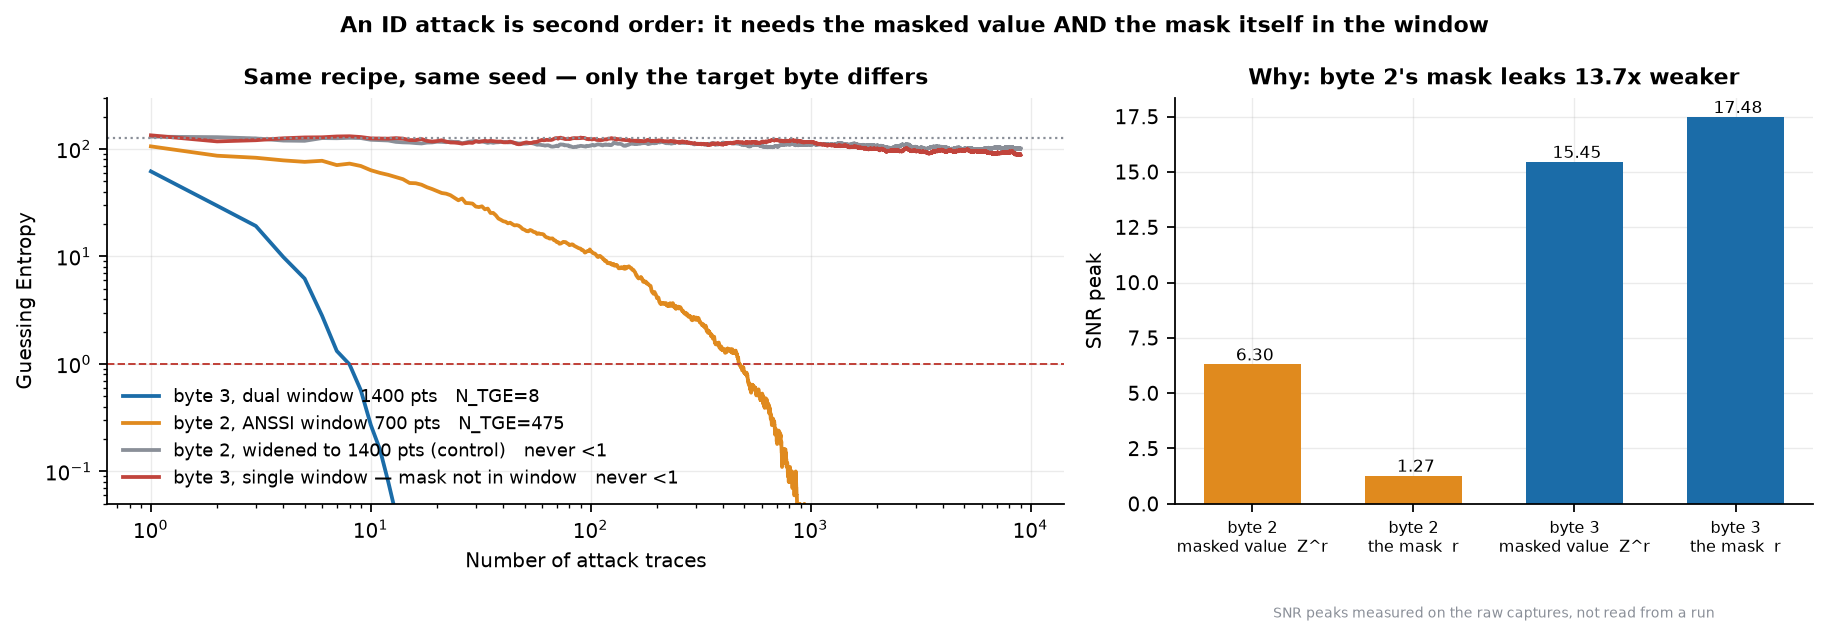
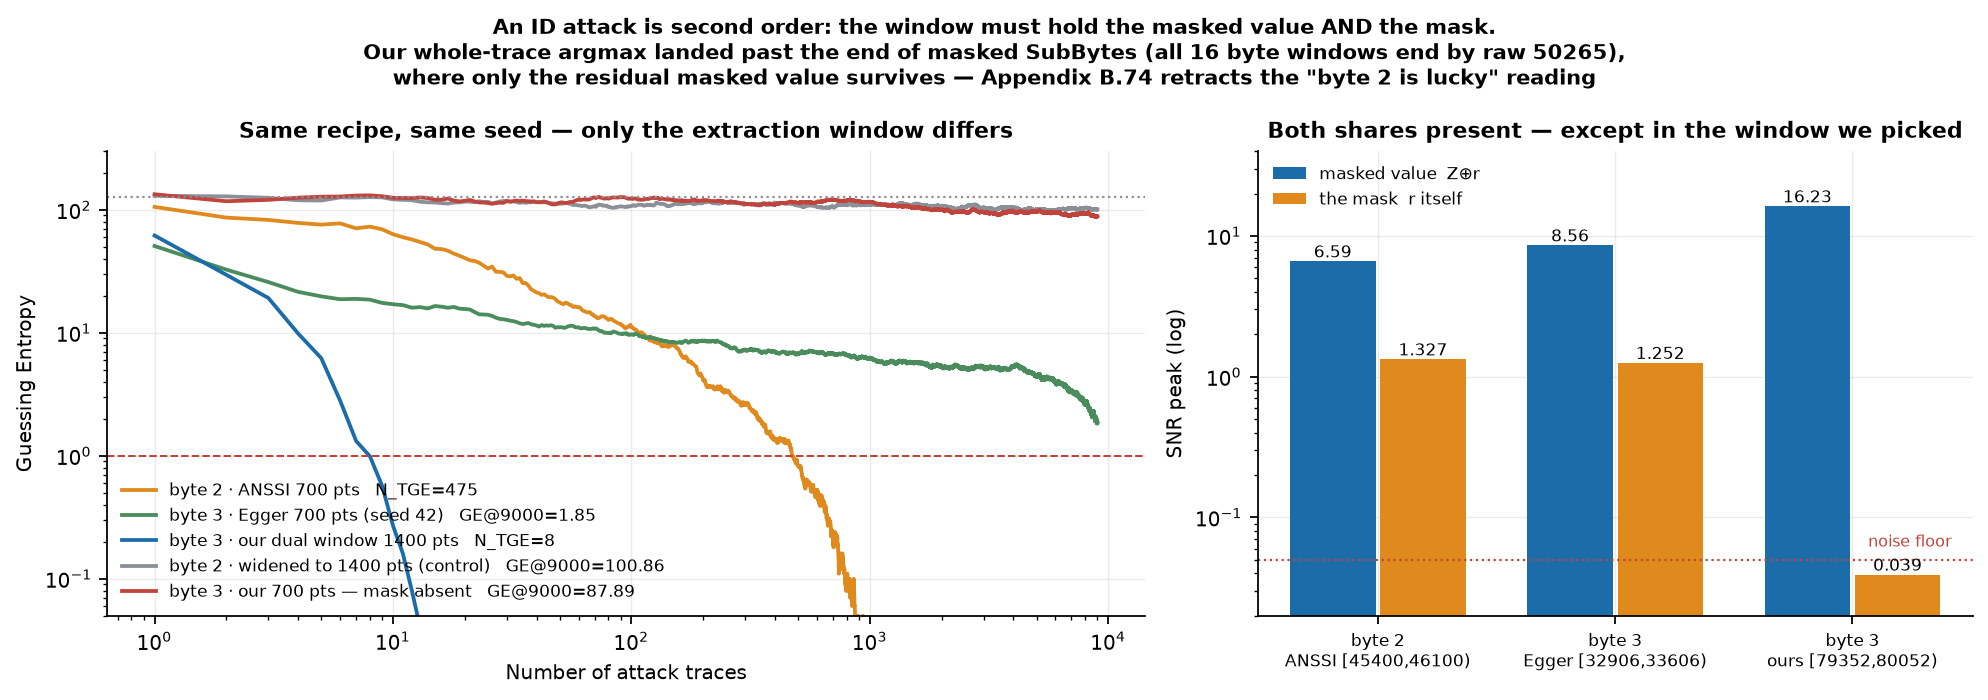
Retract 附錄 B.66/B.67's "byte 2 is a lucky special case" — we picked the window wrong
Egger et al., "A Second Look at the ASCAD Databases" (COSADE 2022, LNCS 13211,
pp. 75-99) is the paper 附錄 B.66 could not obtain and the literature check
flagged as the one that might pre-empt the multi-byte finding. It does, and it
also shows the finding was wrong.

Their Appendix A.1 Table 4 publishes a per-byte window for all 16 bytes, and
their Table 1 — computed on those windows — recovers byte 3 with a second-order
multivariate CPA in 280 traces. So a single 700-sample window does support a
second-order attack on byte 3, which is exactly what B.66 claimed was
impossible.

Measured on 8,000 raw traces (check_egger_windows.py):

  byte 2, ANSSI [45400,46100):  Z^r 6.5922   r 1.3272
  byte 3, Egger [32906,33606):  Z^r 8.5579   r 1.2522
  byte 3, ours  [79352,80052):  Z^r 16.2306  r 0.0392  <- noise

Byte 3's two shares sit together in its own SubBytes window, structurally just
like byte 2's. What went wrong is window SELECTION: 06_find_byte_poi.py takes a
whole-trace argmax of the masked label, and for byte 3 that lands at raw 79702 —
past the end of the entire masked SubBytes region (all 16 windows end by raw
50265), where only the residual masked value survives and the mask does not leak
at all. We opened the window where one share was strongest, got an attack that
was impossible in principle, and blamed the byte.

Re-running with Egger's window (E10d, three seeds, otherwise identical to E01):
[…]

diff --git a/scripts/09_make_figures.py b/scripts/09_make_figures.py
@@ -15,11 +15,10 @@ labelled as such:
 
   * F05 recomputes SNR from the h5 databases, because SNR is a property of the
     data rather than of any run.
-  * F11's right panel carries the four SNR peaks measured in CLAUDE.md 附錄
-    B.66/B.67. Those are transcribed rather than recomputed: they come from the
-    byte-3 databases, which live on the GPU server and are not part of the
-    local data/ directory. Recompute them with scripts/06_find_byte_poi.py if
-    the numbers ever need re-deriving.
+  * F11's right panel carries six SNR peaks measured on the raw traces by
+    check_egger_windows.py (CLAUDE.md 附錄 B.74). Those are transcribed rather
+    than recomputed: the raw 6 GB capture lives on the GPU server, not in the
+    local data/ directory.
 
 Usage (run from repo root):
     python scripts/09_make_figures.py                 # everything except F05
@@ -31,6 +30,7 @@ from __future__ import annotations
 
 import argparse
 import csv
+import glob
 import json
 import os
 import sys
@@ -512,42 +512,71 @@ def f10_variable_key():
     save(fig, "F10_variable_key", "variable-key E09/E09b + diagnostic (附錄 B.64/B.65)")
 
 
+def _run_with_seed(pattern: str, seed: int) -> str:
+    """Resolve a pid-suffixed run directory by the seed in its config snapshot."""
+    for d in sorted(glob.glob(pattern)):
+        snap = Path(d) / "config_snapshot.yaml"
+        if snap.exists() and any(l.strip() == f"seed: {seed}" for l in snap.read_text().splitlines()):
+            return d.rstrip("/")
+    raise FileNotFoundError(f"{pattern} with seed {seed}")
+
+
 def f11_byte_comparison():
-    """附錄 B.66/B.67: byte 2 is both uniquely convenient and unusually hard."""
+    """附錄 B.66/B.67, corrected by 附錄 B.74.
+
+    The original version of this figure argued that byte 2 was a lucky special
+    case whose two second-order shares happen to share one window. That reading
+    was retracted: Egger et al. (COSADE 2022) publish a per-byte window for every
+    byte, and byte 3's contains both shares. What actually went wrong was window
+    SELECTION — a whole-trace argmax of the masked label landed past the end of
+    the masked SubBytes region, where only the residual masked value survives.
+    """
     entries = [
+        ("runs/E01_baseline_clean_20260816_1302", "byte 2 · ANSSI 700 pts", C_MID),
+        (_run_with_seed("runs_byte3_egger/E10d_byte3_egger_*/", 42),
+         "byte 3 · Egger 700 pts (seed 42)", C_ALT),
         ("runs_byte3/E10b_byte3_dual_20260901_210700_2080071",
-         "byte 3, dual window 1400 pts", C_GOOD),
-        ("runs/E01_baseline_clean_20260816_1302", "byte 2, ANSSI window 700 pts", C_MID),
+         "byte 3 · our dual window 1400 pts", C_GOOD),
         ("runs_byte3/E10c_byte2_wide_control_20260901_211734_2103231",
-         "byte 2, widened to 1400 pts (control)", C_GREY),
+         "byte 2 · widened to 1400 pts (control)", C_GREY),
         ("runs_byte3/E10_byte3_20260901_205458_2055720",
-         "byte 3, single window — mask not in window", C_BAD),
+         "byte 3 · our 700 pts — mask absent", C_BAD),
     ]
-    fig, (ax, axb) = plt.subplots(1, 2, figsize=(11.5, 4.2), gridspec_kw={"width_ratios": [1.5, 1]})
+    fig, (ax, axb) = plt.subplots(1, 2, figsize=(12.5, 4.4), gridspec_kw={"width_ratios": [1.45, 1]})
     for run, label, colour in entries:
         m = metrics(run)
         curve = np.asarray(m["ge"])
-        tail = f"N_TGE={m['n_tge']}" if m.get("n_tge") else "never <1"
+        tail = f"N_TGE={m['n_tge']}" if m.get("n_tge") else f"GE@{len(curve)}={curve[-1]:.2f}"
         ax.plot(np.arange(1, len(curve) + 1), curve, color=colour, lw=1.7, label=f"{label}   {tail}")
     ax.set_xscale("log"); ax.set_yscale("log")
     ax.set_ylim(0.05, 300)
-    _ge_axes(ax, "Same recipe, same seed — only the target byte differs")
-    ax.legend(loc="lower left")
+    _ge_axes(ax, "Same recipe, same seed — only the extraction window differs")
+    ax.legend(loc="lower left", fontsize=7.5)
 
-    # The two leakages an ID attack must combine, measured in 附錄 B.66/B.67.
-    names = ["byte 2\nmasked value  Z^r", "byte 2\nthe mask  r", "byte 3\nmasked value  Z^r", "byte 3\nthe mask  r"]
-    vals = [6.3003, 1.2737, 15.4535, 17.4826]
-    axb.bar(range(4), vals, color=[C_MID, C_MID, C_GOOD, C_GOOD], width=0.6)
-    axb.set_xticks(range(4)); axb.set_xticklabels(names, fontsize=7)
-    axb.set_ylabel("SNR peak")
-    axb.set_title("Why: byte 2's mask leaks 13.7x weaker")
-    axb.text(0.5, -0.28, "SNR peaks measured on the raw captures, not read from a run",
-             transform=axb.transAxes, ha="center", fontsize=6.5, color=C_GREY)
-    for i, v in enumerate(vals):
-        axb.text(i, v, f" {v:.2f}", ha="center", va="bottom", fontsize=7.5)
-    fig.suptitle("An ID attack is second order: it needs the masked value AND the mask itself in the window",
-                 fontsize=10, fontweight="bold")
-    save(fig, "F11_byte_comparison", "byte 2 vs byte 3 (附錄 B.66/B.67)")
+    # Measured on 8,000 raw traces by check_egger_windows.py (附錄 B.74), not
+    # read from a run: SNR is a property of the data, not of any training.
+    windows = ["byte 2\nANSSI [45400,46100)", "byte 3\nEgger [32906,33606)", "byte 3\nours [79352,80052)"]
+    masked_val = [6.5922, 8.5579, 16.2306]
+    mask_itself = [1.3272, 1.2522, 0.0392]
+    x = np.arange(3)
+    axb.bar(x - 0.19, masked_val, 0.36, color=C_GOOD, label="masked value  Z⊕r")
+    axb.bar(x + 0.19, mask_itself, 0.36, color=C_MID, label="the mask  r itself")
+    for xi, v in zip(x - 0.19, masked_val):
+        axb.text(xi, v, f"{v:.2f}", ha="center", va="bottom", fontsize=7.5)
+    for xi, v in zip(x + 0.19, mask_itself):
+        axb.text(xi, v, f"{v:.3f}", ha="center", va="bottom", fontsize=7.5)
+    axb.axhline(0.05, color=C_BAD, ls=":", lw=1)
+    axb.text(2.42, 0.062, "noise floor", ha="right", fontsize=7, color=C_BAD)
+    axb.set_yscale("log"); axb.set_ylim(0.02, 40)
+    axb.set_xticks(x); axb.set_xticklabels(windows, fontsize=7.5)
+    axb.set_ylabel("SNR peak (log)")
+    axb.set_title("Both shares present — except in the window we picked")
+    axb.legend(fontsize=7.5)
+    fig.suptitle("An ID attack is second order: the window must hold the masked value AND the mask.\n"
+                 "Our whole-trace argmax landed past the end of masked SubBytes (all 16 byte windows end by raw 50265),\n"
+                 "where only the residual masked value survives — Appendix B.74 retracts the \"byte 2 is lucky\" reading",
+                 fontsize=9.5, fontweight="bold")
+    save(fig, "F11_byte_comparison", "byte 2 vs byte 3 windows (附錄 B.66/B.67, corrected by B.74)")
 
 
 def f12_hardware_baseline(n_traces: int = 5000):

diff --git a/scripts/00_inspect_data.py b/scripts/00_inspect_data.py
@@ -170,8 +170,13 @@ def main() -> None:
     # second order — it must combine Z^r with r — so a window holding only Z^r
     # makes the attack impossible in principle, whatever the model or
     # hyperparameters. The masked-label check above is blind to this: it PASSED on
-    # a byte-3 window with a better SNR than byte 2's whose mask leaked 19,161 raw
-    # points away. See CLAUDE.md 附錄 B.66/B.67.
+    # a byte-3 window with a better SNR than byte 2's, in which the mask did not
+    # leak at all (mask-value SNR 0.0392, i.e. noise). That window was picked by
+    # taking the whole-trace argmax of the masked label, which landed outside the
+    # masked-SubBytes region entirely — see CLAUDE.md 附錄 B.74, which retracts
+    # 附錄 B.66's "no 700-point window can hold both shares" reading. The check
+    # below is still the right one; what was missing is applying it when CHOOSING
+    # the window, not only after extracting it.
     snr_mask_value = snr(a_traces, a_meta["masks"][:, mask_index].astype(np.uint8))
     peak_mask, poi_mask = float(snr_mask_value.max()), int(snr_mask_value.argmax())
     print(f"  mask-value     SNR peak: {peak_mask:.4f} at point {poi_mask}  "

diff --git a/CLAUDE.md b/CLAUDE.md
@@ -2161,7 +2161,9 @@ PI           = -0.0137 bits
 
 **另外，這裡沒有做的一件重要的事**：**沒有嘗試為 variable-key 尋找一組能work的配方**。本節只證明了「E01 的配方不能遷移」，沒有證明「variable-key 在本專案的框架下攻不破」——SCA 文獻普遍需要更大的模型與更多軌跡才能處理 variable-key，而本專案已經反覆證實（desync50/100、resnet、cnn_best）**換情境就必須重新調參，不能假設遷移**。若要讓 variable-key 成為防禦端可用的評估基礎，需要對它投入一輪與 B.7–B.16 同等規模的獨立調查，這是一筆明確、可預期、但尚未投入的成本。
 
-### B.66 多 byte 分析：byte 2 是一個**特例**，它的視窗剛好同時裝下兩個必要的洩漏——其他 byte 沒有這個運氣
+### B.66 多 byte 分析（⚠ 核心結論已於 B.74 撤回）：byte 2 是一個**特例**，它的視窗剛好同時裝下兩個必要的洩漏——其他 byte 沒有這個運氣
+
+> **⚠ 訂正（2026-09-16，見 B.74）**：本節的機制解釋**是錯的**。取得 Egger et al.（COSADE 2022）全文後發現，他們的附錄 A.1 表 4 公布了全部 16 個 byte 各自的單一 700 點視窗；實測他們的 byte 3 視窗 `[32906, 33606)`：遮罩值 SNR **8.56**、遮罩本身 SNR **1.25**，**兩個 share 都在同一個 700 點視窗內**，與 byte 2（6.59／1.33）幾乎相同。下面「任何 700 點視窗都裝不下」與「byte 2 是特例」的推論因此不成立——真正的原因是**我們自己把視窗開錯地方**（見 B.74）。本節其餘的實驗事實（E10 失敗、E10b 成功、E10c 對照）仍然成立，保留作為歷史記錄。
 
 **動機**：資料集廣度的第二部分。E01 的配方是針對 ASCAD fixed-key **byte 2** 調出來的，而 ASCAD 官方發布的三個資料庫全部都是 byte 2 的 `[45400, 46100)` 視窗。要測其他 byte，必須自己從 raw traces 重新抽取——這是本節的主要工程。
 
@@ -2195,11 +2197,11 @@ N_TGE = None   GE@9000 = 87.89   SR1 = 0.00   PI = -0.6555
 | byte 2（ANSSI 官方視窗） | 6.3003 @ 視窗點 517 | **1.2737 @ 視窗點 156**（在視窗內） |
 | byte 3（我的單一視窗） | 15.4535 @ 視窗點 350 | **0.0106 @ 視窗點 276**（**雜訊層級，不在視窗內**） |
 
-回到 raw 座標掃描 byte 3 的遮罩欄位（`masks[:,1]`）：**遮罩的洩漏峰值在 raw point 98863**（SNR 17.5595），而遮罩值在 **79702**——**兩者相距 19,161 個點**。**任何 700 點視窗都不可能同時裝下**。
+回到 raw 座標掃描 byte 3 的遮罩欄位（`masks[:,1]`）：**遮罩的洩漏峰值在 raw point 98863**（SNR 17.5595），而遮罩值在 **79702**——**兩者相距 19,161 個點**。~~**任何 700 點視窗都不可能同時裝下**。~~ **⚠ 這個推論錯了**：這兩個位置都在 masked SubBytes 區域**之外**（16 個 byte 的視窗最遠只到 raw 50265），是該中間值在後續運算中的殘留；在 SubBytes 區域內、byte 3 自己的處理視窗裡，兩個 share 都在（B.74）。
 
 **所以 E10 的失敗不是配方的問題，是我抽取視窗的錯誤**——那個視窗讓攻擊在資訊論上就不可能成立，跟超參數毫無關係。**這個錯誤的結論沒有被寫進任何地方，因為在下筆前先做了這項確認。**
 
-**真正的發現，比原本以為的更有意思**：**byte 2 是一個特例**。ANSSI 選的 `[45400, 46100)` 之所以能用單一 700 點視窗支撐 ID 攻擊，是因為 byte 2 的遮罩（raw 45556）與遮罩值（raw 45917）**剛好只差 361 個點**。byte 3 差了 19,161 點。換句話說——**整個 ASCAD 生態系（以及本專案至今的一切）建立在一個運氣很好的 byte 上**；「換一個 byte 重跑」這件事，並不是換個 `target_byte` 參數那麼簡單，而是需要重新做 POI 工程。
+~~**真正的發現，比原本以為的更有意思**：**byte 2 是一個特例**。~~（**⚠ 已撤回，見 B.74**；以下段落保留原文作為記錄）ANSSI 選的 `[45400, 46100)` 之所以能用單一 700 點視窗支撐 ID 攻擊，是因為 byte 2 的遮罩（raw 45556）與遮罩值（raw 45917）**剛好只差 361 個點**。byte 3 差了 19,161 點。換句話說——**整個 ASCAD 生態系（以及本專案至今的一切）建立在一個運氣很好的 byte 上**；「換一個 byte 重跑」這件事，並不是換個 `target_byte` 參數那麼簡單，而是需要重新做 POI 工程。
 
 **修正做法**：`07_extract_window.py` 改成支援 `--windows START:STOP [START:STOP ...]`，把多個視窗串接起來。byte 3 用兩個 700 點視窗（各自置中於兩個 POI）串成 1400 點：
 
@@ -2239,8 +2241,8 @@ GE @ N=50   = 0.00  SR1 = 1.00      （之後全程維持）
 **四個結論**：
 
 1. **E01 的配方在 byte 之間遷移得非常好**。這是本專案第一次「換情境還能用」的正面案例——先前換 desync 幅度（B.18/B.25–B.28）、換架構（B.50、B.56–B.60）、換資料庫（B.64）全部失敗，而換 byte 不但成功，還是全專案最強的真實攻擊結果（`N_TGE=8`）。**配方的脆弱性因此可以被更精確地界定：它對「訊號的時間結構與統計特性」敏感（desync、變動金鑰），但對「同一份採集裡換一個目標中間值」不敏感。**
-2. **byte 3 的優勢是它本身洩漏就強得多**，尤其關鍵的是**遮罩的洩漏強了 13.7 倍**（17.4826 vs 1.2737）。ID 攻擊本質上是二階攻擊，必須同時抓到遮罩值與遮罩；byte 2 的遮罩洩漏（1.2737）相對微弱，正是它難攻的原因。
-3. **byte 2 其實是一個「雙重特殊」的目標**：既幸運（兩個 POI 只差 361 點，單一 700 點視窗就裝得下——其他 byte 沒這運氣，byte 3 差了 19,161 點），又**偏難**（洩漏強度在測過的兩個 byte 裡明顯較弱）。**整個 ASCAD 生態系與本專案至今的全部結論，都建立在這一個既方便又偏難的 byte 上。**
+2. **byte 3 的優勢是它本身洩漏就強得多**，尤其關鍵的是**遮罩的洩漏強了 13.7 倍**（17.4826 vs 1.2737；⚠ 這是拿我們錯誤視窗裡的 r₃ 殘留跟 byte 2 視窗裡的 r₂ 相比，不是同一類位置的公平比較，見 B.74）。ID 攻擊本質上是二階攻擊，必須同時抓到遮罩值與遮罩；byte 2 的遮罩洩漏（1.2737）相對微弱，正是它難攻的原因。
+3. ~~**byte 2 其實是一個「雙重特殊」的目標**~~（**⚠ 已撤回，見 B.74**）：既幸運（兩個 POI 只差 361 點，單一 700 點視窗就裝得下——其他 byte 沒這運氣，byte 3 差了 19,161 點），又**偏難**（洩漏強度在測過的兩個 byte 裡明顯較弱）。**整個 ASCAD 生態系與本專案至今的全部結論，都建立在這一個既方便又偏難的 byte 上。**
 4. **視窗不是越寬越好**：把 byte 2 從 700 點加寬到 1400 點，在資料量不變的情況下，模型變大、無關的點變多，結果從 `N_TGE=475` 退化成完全不收斂。這與 B.8/B.42/B.49 反覆看到的「排程長度／epoch 數／容量都必須跟其他條件一起調」是同一類教訓。
 
 **方法論價值（值得寫進報告）**：本節是本次投入中**最接近發表一個錯誤結論的一次**。E10 的失敗（`N_TGE=None`）本來會被寫成「E01 的配方連換一個 byte 都撐不住」——這會是關於配方脆弱性最強烈、也最吸引人的宣稱，而且它有完整的實驗數據支持、`00_inspect_data.py` 甚至還 **PASS** 了（SNR 15.4535、分離度 1405 倍，比 byte 2 還漂亮）。**健檢通過並不代表視窗可用**：`00_inspect_data.py` 只檢查「遮罩已知標籤的 SNR 是否顯著高於未遮罩對照組」，而這個檢查對「遮罩本身有沒有落在視窗內」完全盲目——但後者才是 ID 攻擊能否成立的前提。真正救回來的，是動筆前多問一句「這個視窗裡到底有沒有攻擊所需的全部資訊」。
@@ -2424,3 +2426,45 @@ GE @ N=2000 = 0.0000            SR1 = 1.0000
 - **第三層（Zaid 自適應，D04）**：seed 777 以 **140 條**完全攻破；seed 2024／1 的 GE 為 44.72／39.85；seed 42／123 重訓練後 loss 仍在 5.542，屬無效攻擊者、不計入。
 - **自適應評估也要逐種子做第零層檢查**：把學不起來的種子算進去，D04 會被誤判為「5 個中 4 個未攻破」。同理，Gu 式插入防禦（L=4）的「未攻破」，大部分來自自適應攻擊者訓練失敗（6 個中 3 個 loss 未離開 log 256）。
 - 新增 `configs/exp/E12_adaptive_A1_zaid.yaml`；自適應攻擊者結果存於 `runs_adaptive_gu/`（gitignored）。
+
+### B.74 訂正 B.66／B.67：byte 3 的兩個 share 其實在同一個視窗裡，錯的是我們挑視窗的方法
+
+**起因**：使用者取得 Egger, Schamberger, Tebelmann, Lippert, Sigl. *A Second Look at the ASCAD Databases*（COSADE 2022, LNCS 13211, pp. 75–99）全文。這篇正是 B.66 當初無法核實、防禦端 `docs/文獻查核.md` 列為「優先取得」的那一篇。
+
+**它說了什麼**：
+
+- **附錄 A.1 表 4 公布了全部 16 個 byte 各自的單一視窗**（ASCAD_fix 700 點、ASCAD_variable 1400 點）。byte 3 的 fix 視窗是 `[32906, 33606)`，byte 2 是 `[45400, 46100)`（即 ANSSI 的官方視窗）。他們的對齊基準是 S(p⊕k)⊕r_out 的峰值，固定在視窗點 492。
+- **表 1 是在那些逐 byte 視窗上算的**（表 2 才是全長）。在 byte 3 的 700 點視窗內，二階多變量 CPA **280 條軌跡**即恢復金鑰，二階單變量 2,060 條。也就是說，單一 700 點視窗對 byte 3 **足以支撐二階攻擊**。
+- 他們也指出 ASCAD 視窗的設計意圖本來就是同時包含遮罩值與遮罩（rationale 明確寫出 r_out 與 r_i），以及各 byte 視窗內的洩漏組成不同（k2、k3 額外有 r_in，k4 有 r_out，k5 有 r_i）。
+- 結論直接寫著：單一 byte 的結果可能不具代表性，攻擊者必須為每個 byte 各訓練一個模型。
+
+**我們的實測（8,000 條 raw 軌跡，`check_egger_windows.py`）**：
+
+| 視窗 | 遮罩值 Z⊕r₃／Z⊕r₂ | 遮罩本身 r₃／r₂ | 判定 |
+|---|---|---|---|
+| byte 2 ANSSI `[45400,46100)` | 6.5922 @ raw 45917 | 1.3272 @ raw 45556 | 兩個 share 都在 |
+| **byte 3 Egger `[32906,33606)`** | **8.5579 @ raw 33420** | **1.2522 @ raw 33088** | **兩個 share 都在** |
+| byte 3 我們的 `[79352,80052)` | 16.2306 @ raw 79702 | **0.0392（雜訊）** | 只有一個 share |
+
+**所以 B.66 的核心主張是錯的**：byte 3 的兩個 share 並非「相距 19,161 點、任何 700 點視窗都裝不下」，而是好端端地一起待在它自己的 SubBytes 處理視窗裡，結構與 byte 2 幾乎相同。
+
+**錯在哪裡**：`06_find_byte_poi.py` 掃過整條 100,000 點軌跡，取 Z⊕mask 的 SNR 全域最大值當作 POI。byte 3 的全域最大值（16.23 @ raw 79702）**不在 SubBytes 區域內**——用 Egger 表 4 對照，16 個 byte 的視窗最遠只到 **raw 50265**，79702 與 98863 都在那之後，是該中間值在後續運算裡的殘留（Egger 註明暫存器不清除，S(p⊕k)⊕r 會延續到後面）。我們把視窗開在那個「訊號最強但只有一個 share」的地方，於是做出一個資訊論上不可能成功的攻擊，再把失敗歸因給 byte。
+
+**用 Egger 視窗重跑（E10d，`configs/exp/E10d_byte3_egger.yaml`，三個種子，其餘與 E01 完全相同）**：
+
+```
+00_inspect_data.py：masked-label SNR 8.5515 @ 514，mask-value SNR 1.1722 @ 182，PASS
+seed 42 ：GE@9000=1.85   N_TGE=None  SR1=0.25  每次攻擊收斂 25/100（平均 7,856 條）  PI=+1.0216
+seed 123：GE@9000=11.71  N_TGE=None  SR1=0.00  0/100                                  PI=+0.9183
+seed 777：GE@9000=8.77   N_TGE=None  SR1=0.00  0/100                                  PI=+0.9674
+```
+
+**修正後的三段式結論**（兩邊都不要過度修正）：
+
+1. **「沒有任何 700 點視窗裝得下 byte 3 的兩個 share」——撤回。** Egger 的視窗裝得下，我們自己的健檢也確認（mask-value SNR 1.17）。
+2. **「byte 2 是幸運的特例」——撤回。** byte 2 的視窗結構跟 byte 3 的並無本質差異，兩者都是 ANSSI／Egger 依同一個對齊規則選出來的。
+3. **「雙視窗遠優於單視窗」——仍然成立，但原因不同。** E10b 的雙視窗 N_TGE=8，而 Egger 單視窗三個種子都沒在 9,000 條內收斂（GE 1.85–11.71）。原因不是「單視窗缺一個 share」，而是我們的雙視窗把**訊號更強的殘留位置**（16.23）跟一個強遮罩洩漏拼在一起，SNR 條件優於 Egger 視窗的 8.56／1.25。E10 原本的失敗（GE 87.89）則確實是缺 share 造成的。
+
+**真正該留下的教訓，是關於工具鏈而不是關於 ASCAD**：二階攻擊的視窗挑選，必須**對兩個 share 各驗一次**。B.67 之後我們確實把這個檢查加進了 `00_inspect_data.py`（mask-value SNR），但只用在「視窗抽完之後」，沒有套用到「選視窗」那一步——而選視窗正是用單一標籤的 argmax 做的。一個只檢查下游、不檢查上游的護欄，擋不住上游的錯。
+
+**文獻定位的連帶影響**：多 byte 這條線不再有可主張的新發現（Egger 已做且做得更完整：全 16 byte、逐 byte 視窗、CPOI 與組合語言對應、跨 byte 訓練遷移矩陣）。防禦端 `docs/文獻查核.md` 第 8 項與第 4 節「不要主張的」已同步更新。

diff --git a/reports/figures/README.md b/reports/figures/README.md
@@ -4,7 +4,7 @@
 每張圖的每一條曲線與每一個數字都是從 `runs*/metrics.json`、`runs*/train_history.csv`
 或 `defenses*/cost_metrics.json` 讀回來的，不是從 CLAUDE.md 手抄，所以圖不會跟產生它的
 那次執行脫節。兩個例外已在圖上與腳本 docstring 標明：F05 與 F12 左圖是從 `.h5` 重算 SNR
-（SNR 是資料的性質，不屬於任何一次 run）；F11 右圖的四個 SNR 峰值是 附錄 B.66/B.67 的量測值
+（SNR 是資料的性質，不屬於任何一次 run）；F11 右圖的六個 SNR 峰值是 附錄 B.74 的量測值
 （byte 3 的資料庫在 GPU server 上，不在本機 `data/`）。
 
 | 圖 | 內容 | 對應附錄 |
@@ -19,7 +19,7 @@
 | F08 | cnn_best 六次嘗試全部落在同一個雜訊帶內 | B.50 |
 | F09 | resnet 十個種子＋patience 對照＋1-epoch 對照 | B.57–B.59 |
 | F10 | variable-key：管線正確，ID 任務本身學不起來 | B.64、B.65 |
-| F11 | byte 2 vs byte 3：ID 攻擊是二階，視窗要同時裝下遮罩值與遮罩 | B.66、B.67 |
+| F11 | 抽取視窗的比較：ID 攻擊是二階，視窗要同時裝下遮罩值與遮罩；我們原本挑的 byte 3 視窗只有其中一個 | B.66、B.67、**B.74（訂正）** |
 | F12 | E11 ChipWhisperer 基準：未防護實作單條軌跡即破 | B.68 |
 | F13 | 硬體上的防禦劑量反應曲線，以及 PSR 作為成本指標的失效 | B.68、B.69 |
 | F14 | 高斯噪訊防禦基準線（GAN 防禦要打敗的對象） | C.3 |
